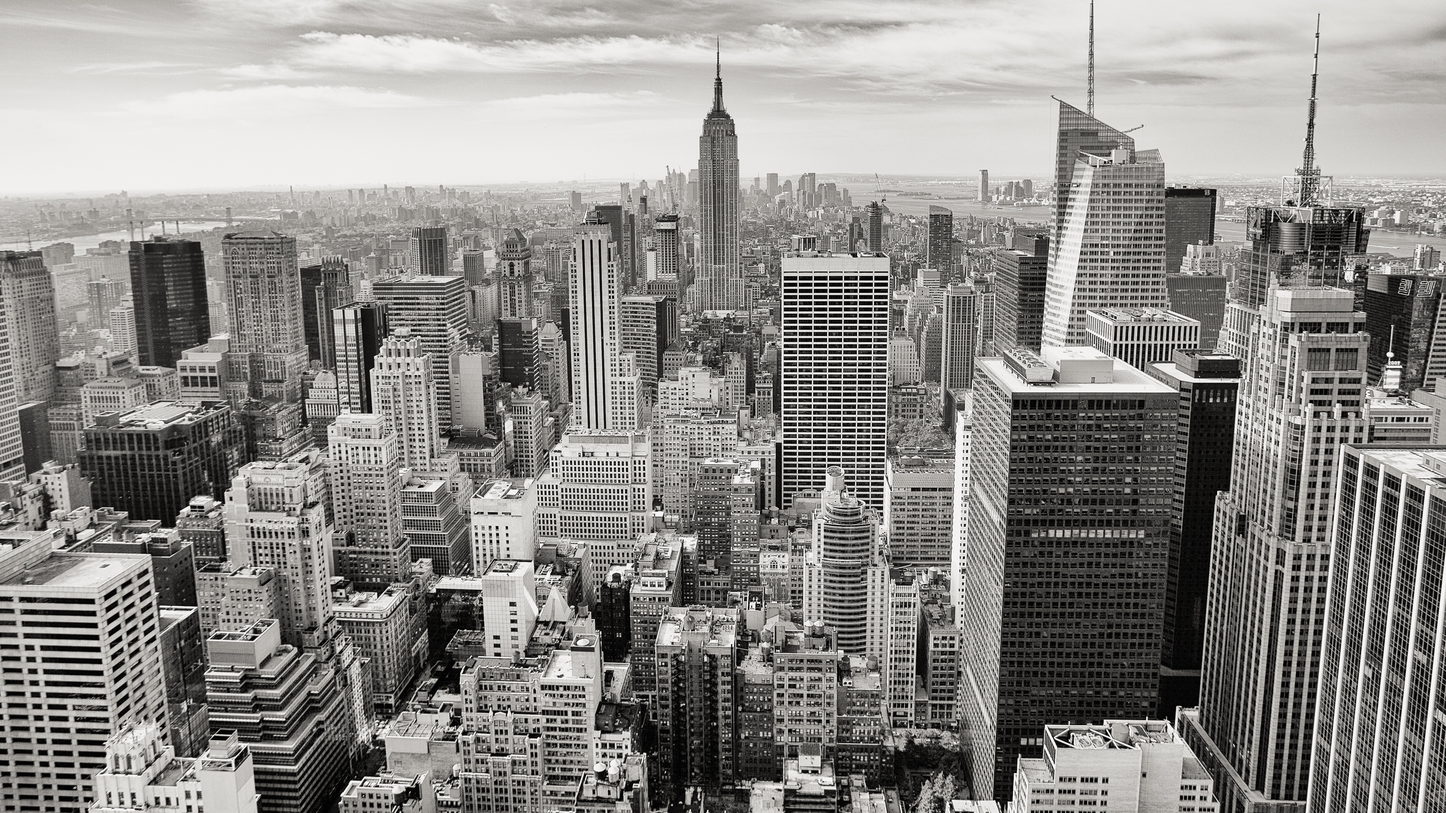
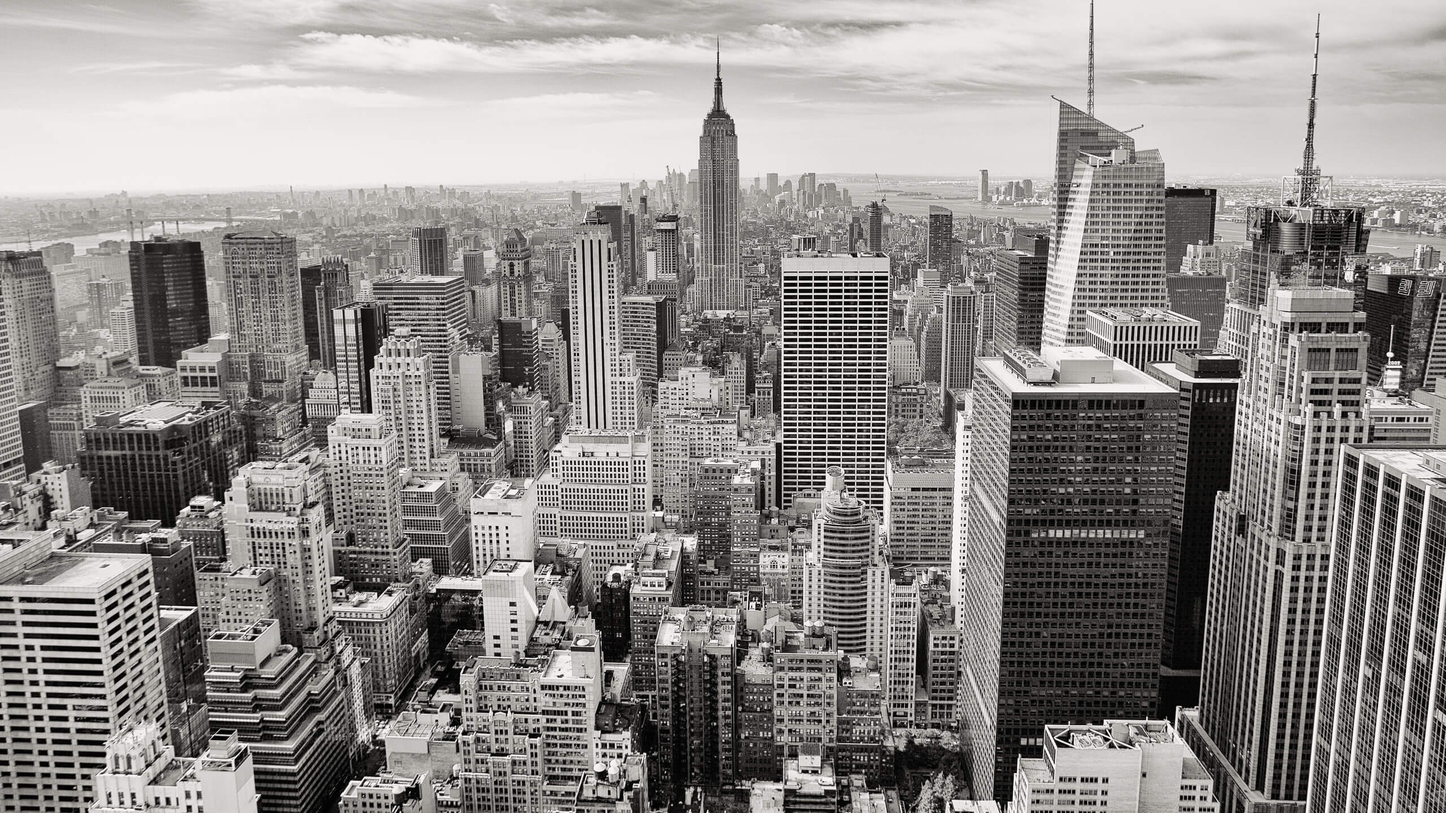
install background image is now compressed

diff --git a/CHANGES.md b/CHANGES.md
@@ -3,8 +3,7 @@ YetAnotherForum.NET Changelog
 
 ## YetAnotherForum.NET v2.2.0
 
-#New Features:
-
+## New Features:
 * [#191](https://github.com/YAFNET/YAFNET/issues/191): YAF.NET is now compatible with Azure
 * [#112](https://github.com/YAFNET/YAFNET/issues/112): Intuitive Posting of Photos
 * [#230](https://github.com/YAFNET/YAFNET/issues/230): Thousand Separator in Active Users
@@ -69,4 +68,70 @@ YetAnotherForum.NET Changelog
 * Posts in Forum RSS Feed are now correctly sorted
 
 ###Full Change log here:
+https://github.com/YAFNET/YAFNET/commits/master
+New Features:
+* [#191](https://github.com/YAFNET/YAFNET/issues/191): YAF.NET is now compatible with Azure
+* [#112](https://github.com/YAFNET/YAFNET/issues/112): Intuitive Posting of Photos
+* [#230](https://github.com/YAFNET/YAFNET/issues/230): Thousand Separator in Active Users
+* [#198](https://github.com/YAFNET/YAFNET/issues/198): Display of user's medal in his profile
+* [#196](https://github.com/YAFNET/YAFNET/issues/196): Spam email address import needs additional check
+* [#181](https://github.com/YAFNET/YAFNET/issues/181): Restore Previous Message Button on the Message History Page
+* [#168](https://github.com/YAFNET/YAFNET/issues/168): added Ability to send replies with Ctrl-Enter
+* [#163](https://github.com/YAFNET/YAFNET/issues/163): Add a "resend confirmation email" functionality
+* [#158](https://github.com/YAFNET/YAFNET/issues/158): Optional Connect Message is now shown after the first message
+* [#154](https://github.com/YAFNET/YAFNET/issues/154): added new spam event log page to the spam protection section of the admin area
+* [#146](https://github.com/YAFNET/YAFNET/issues/146): seo improvments for meta title,description,keywords
+* [#133](https://github.com/YAFNET/YAFNET/issues/133): forum description is now optional
+* [#129](https://github.com/YAFNET/YAFNET/issues/154): number of shown subforum can be defined in the host settings
+* [#123](https://github.com/YAFNET/YAFNET/issues/123): Save Avatars in Physical folder
+* [#105](https://github.com/YAFNET/YAFNET/issues/105): Automatic YouTube link recognition
+* [#103](https://github.com/YAFNET/YAFNET/issues/103): Welcome mail to new members upon successfully verified registration
+* [#102](https://github.com/YAFNET/YAFNET/issues/102): Display similar threads and topics
+* [#100](https://github.com/YAFNET/YAFNET/issues/100): View topic started by xxxx" instead of just "View topic" in Active Discussions list
+* added new eventlog filter for "detected a banned ip"
+* added ability to search for post titles only
+* existing bbcode extensions can now be upgraded during an upgrade
+* moved to no Captcha reCAPTCHA
+* Re-designed install wizard
+* CSS Files are now combined
+* JS Files are now combined
+* Switched from syntaxhighlighter to Prism.js
+
+
+## Fixed Issues:
+* [#215](https://github.com/YAFNET/YAFNET/issues/215): added missing Board Name to mass emails
+* [#214](https://github.com/YAFNET/YAFNET/issues/214): added missing {databaseOwner}
+* [#209](https://github.com/YAFNET/YAFNET/issues/209): Fixed group name parameter length to match the length of database field
+* [#202](https://github.com/YAFNET/YAFNET/issues/202): Spam check now also checks for google/facebook accounts
+* [#196](https://github.com/YAFNET/YAFNET/issues/196): added check if import email address is an email
+* [#195](https://github.com/YAFNET/YAFNET/issues/195): Unapproved Posts go to RSS
+* [#182](https://github.com/YAFNET/YAFNET/issues/182): twitter hover card not working
+* [#180](https://github.com/YAFNET/YAFNET/issues/180): rss fixes
+* [#179](https://github.com/YAFNET/YAFNET/issues/179): Multiple email notifications on the same event
+* [#173](https://github.com/YAFNET/YAFNET/issues/173): "kill user" fails for users with no IP
+* [#172](https://github.com/YAFNET/YAFNET/issues/172): Country list not sorted by country name
+* [#170](https://github.com/YAFNET/YAFNET/issues/170): updated time zone names for Russian cities
+* [#169](https://github.com/YAFNET/YAFNET/issues/169): Focus on text controls for search
+* [#165](https://github.com/YAFNET/YAFNET/issues/165): deleting a topic
+* [#161](https://github.com/YAFNET/YAFNET/issues/161): Country list null object in Event Log
+* [#157](https://github.com/YAFNET/YAFNET/issues/157): Img tag links get extra // in IE
+* [#155](https://github.com/YAFNET/YAFNET/issues/155): fix for banned ip when banned ip is "::1"
+* [#152](https://github.com/YAFNET/YAFNET/issues/152): Cannot log out of Moderator from IE11
+* [#148](https://github.com/YAFNET/YAFNET/issues/148): Tweaked the Meta Content
+* [#78](https://github.com/YAFNET/YAFNET/issues/78): Editing Medal's throws error and logs me out
+* fixed nvarchar length in role name parameters
+* fixed page title set on the popup page
+* removed not working spell button
+* fixed issue with the postid anchor
+* timeago loading issue fixed
+* security fix rss topic feeds showed wrong forum topics
+* register link on the login page now goes to the roles page if enabled
+* new index to increase sql performance
+* fixed message converting when user quotes a html message with an bbcode editor
+* Security XSS Preventing Fixes
+* fixed an issue where the user was automatically logged out when the logout url was used inside an img bbcode
+* fixed some exceptions caused by spam bots
+* Posts in Forum RSS Feed are now correctly sorted
+
+### Full Change log here:
 https://github.com/YAFNET/YAFNET/commits/master
